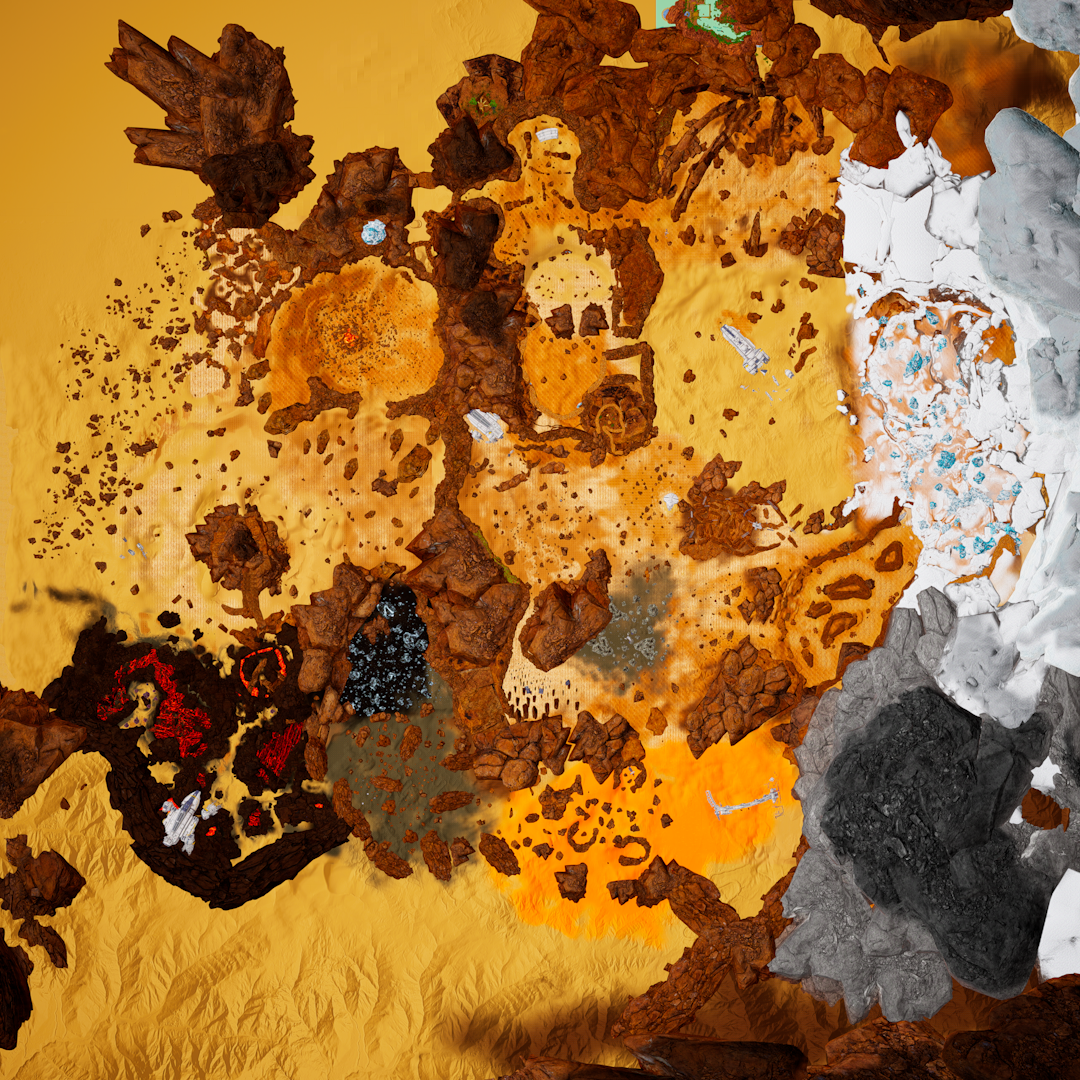
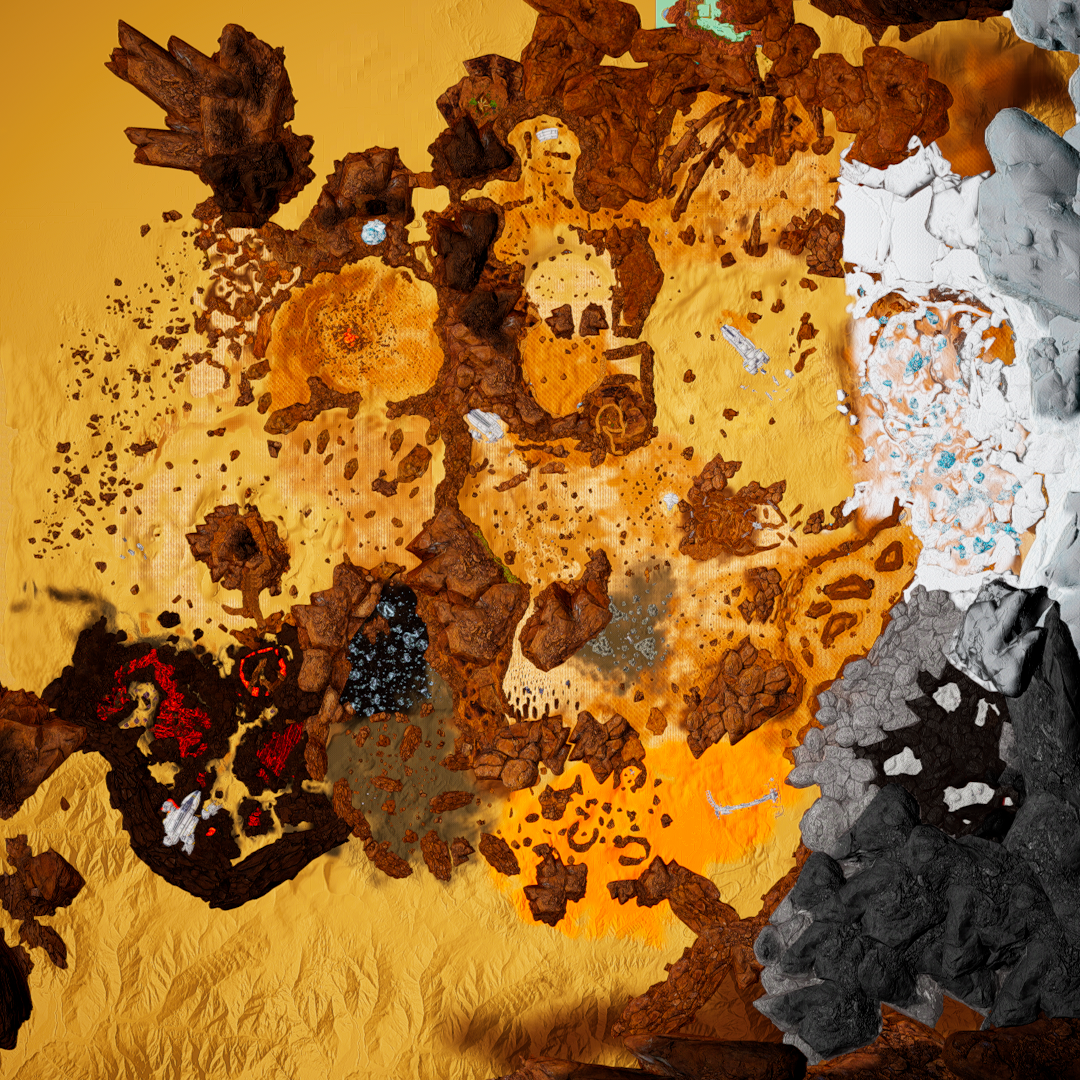
Minimap: update & crash fix, CC: best equipment update

diff --git a/CheatMinimap/Plugin_Capture.cs b/CheatMinimap/Plugin_Capture.cs
@@ -10,6 +10,7 @@ using UnityEngine.InputSystem;
 using UnityEngine.SceneManagement;
 using UnityEngine;
 using LibCommon;
+using System;
 
 namespace CheatMinimap
 {
@@ -76,6 +77,7 @@ namespace CheatMinimap
 
         void SetVisuals(int step, PlayerMainController pm)
         {
+            Logger.LogInfo("    Camera");
             Camera.main.orthographic = true;
             Camera.main.orthographicSize = step;
             Camera.main.aspect = 1;
@@ -83,6 +85,7 @@ namespace CheatMinimap
             Camera.main.nearClipPlane = -400;
             Camera.main.layerCullDistances = new float[32];
 
+            Logger.LogInfo("    RenderSettings");
             RenderSettings.fog = false;
             RenderSettings.ambientSkyColor = Color.white;
             RenderSettings.ambientGroundColor = Color.white;
@@ -91,6 +94,7 @@ namespace CheatMinimap
             RenderSettings.sun.color = Color.white;
             RenderSettings.ambientMode = UnityEngine.Rendering.AmbientMode.Flat;
 
+            Logger.LogInfo("    Shadows");
             QualitySettings.shadows = ShadowQuality.Disable;
 
             var pw = pm.GetComponentInChildren<PlayerView>();
@@ -98,12 +102,16 @@ namespace CheatMinimap
             pw.damageViewVolume.weight = 0;
             pw.damageViewVolume.enabled = false;
 
+            /*
+             * The following either crashes Unity 2023.4.19f or hangs while doing a screenshot.
+            Logger.LogInfo("    Lights");
             foreach (Light lg in FindObjectsByType<Light>(FindObjectsSortMode.None))
             {
                 lg.shadows = LightShadows.None;
                 lg.color = Color.white;
                 lg.range = 1000;
             }
+            */
             /*
             foreach (var ps in FindObjectsOfType<ParticleSystem>())
             {
@@ -204,10 +212,27 @@ namespace CheatMinimap
 
             foreach (int y in ys)
             {
+                Logger.LogInfo("  Place");
                 pm.SetPlayerPlacement(new Vector3(playerX, y, playerZ), q);
+                yield return 0;
+                Logger.LogInfo("  Visuals");
                 SetVisuals(visualStep, pm);
                 yield return 0;
-                ScreenCapture.CaptureScreenshot(dir + "\\map_" + y + ".png");
+                yield return 0;
+                yield return 0;
+                yield return 0;
+                var fn = dir + "\\map_" + y + ".png";
+                // var fn = "c:\\temp\\map_" + y + ".png";
+                Logger.LogInfo("  Capture @ " + y + " -> " + fn);
+                try
+                {
+                    ScreenCapture.CaptureScreenshot(fn);
+                }
+                catch (Exception ex)
+                {
+                    Logger.LogError(ex);
+                }
+                Logger.LogInfo("  Capture Done " + y);
                 yield return 0;
             }
 

diff --git a/FeatCommandConsole/Plugin.cs b/FeatCommandConsole/Plugin.cs
@@ -723,8 +723,8 @@ namespace FeatCommandConsole
                 {
                     string[] resources =
                     [
-                        "MultiToolLight2", "MultiToolDeconstruct2", "Backpack5", 
-                        "Jetpack3", "BootsSpeed3", "MultiBuild", "MultiToolMineSpeed4",
+                        "MultiToolLight3", "MultiToolDeconstruct3", "Backpack6", 
+                        "Jetpack4", "BootsSpeed3", "MultiBuild", "MultiToolMineSpeed4",
                         "EquipmentIncrease3", "OxygenTank4", "HudCompass"
                     ];
                     int amount = 1;
